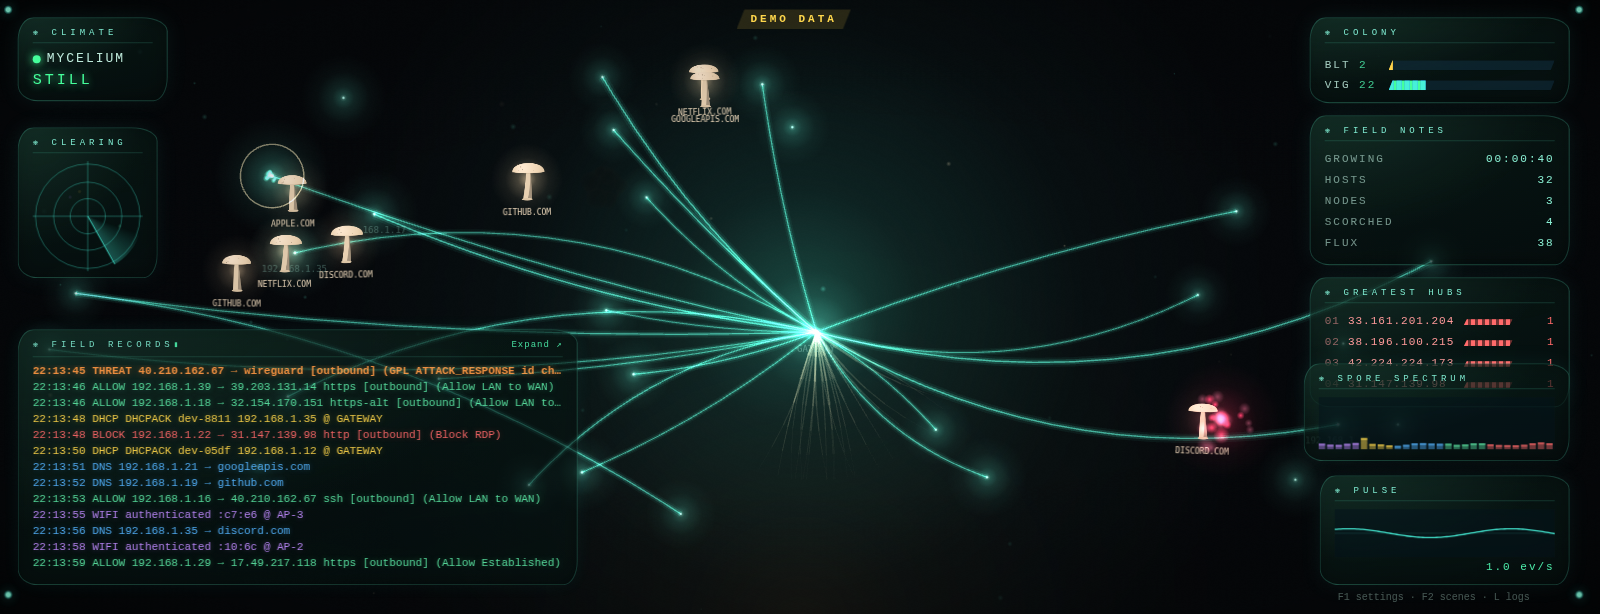
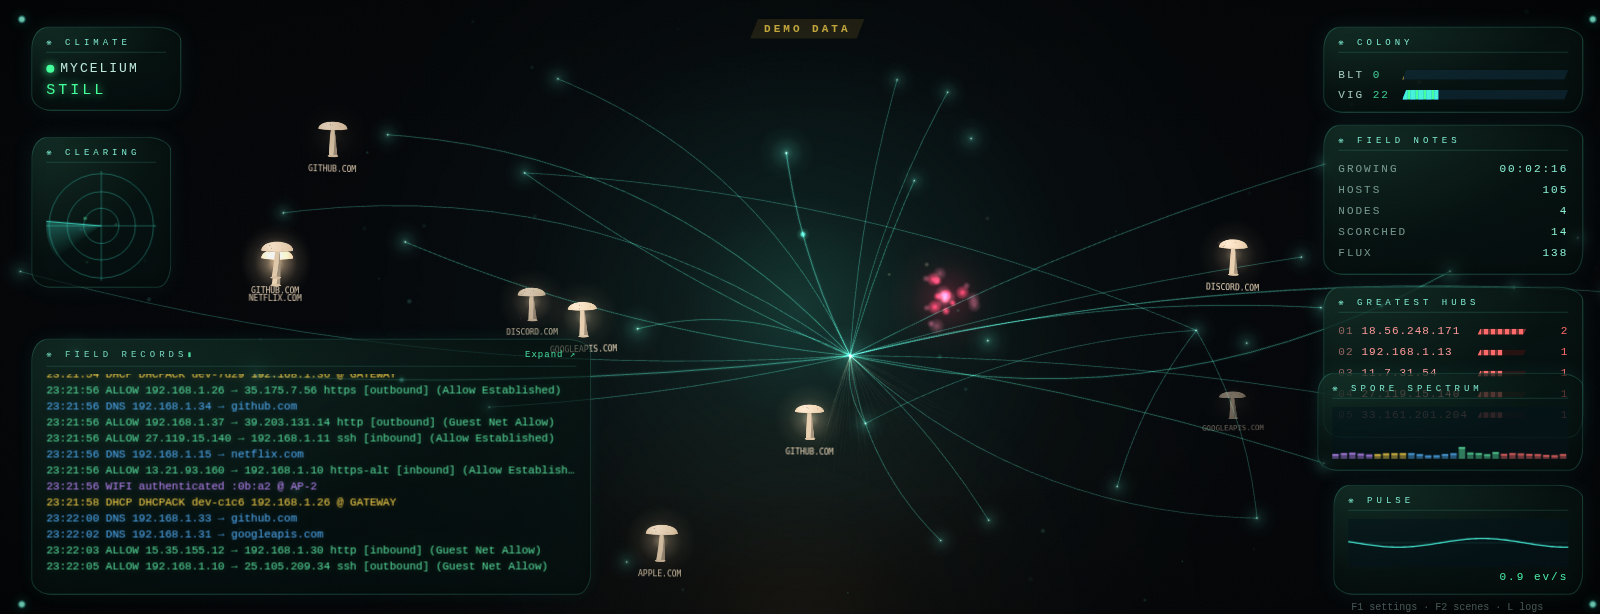
mycelium: traffic is transient light, not bulk brightness
- split every weight into memory (faint, days) and live flare (rate-
  independent top-up, 2.5s half-life): floods read as pulse density
- storm governor dims the base web as weather rises; node glow/flare capped
- blight burn-off flares live, bounded; calmer clearing glow
- stress-tested at 25 ev/s: no white-out; README docs shots re-taken

diff --git a/web/src/themes/mycelium/garden.ts b/web/src/themes/mycelium/garden.ts
@@ -11,7 +11,8 @@ export interface MNode {
   id: string;            // internal IP
   label: string;         // hostname if DHCP ever named it, else the IP
   nx: number; ny: number;
-  w: number;             // activity 0..1 (decays toward dormant)
+  w: number;             // memory 0..0.4: faint and persistent (days)
+  live: number;          // transient activity 0..~0.9: seconds, not traffic volume
   born: number;          // sim seconds
   pulse: number;         // recent-event flash, decays fast, drawn by the view
 }
@@ -19,7 +20,8 @@ export interface MNode {
 export interface MEdge {
   a: string;             // node id
   b: string;             // node id, or '' for an outward tendril
-  w: number;             // thickness 0..1 (decays: neglect thins the web)
+  w: number;             // memory 0..0.45: faint and persistent (days)
+  live: number;          // transient flare: each flow lights the thread briefly
   bend: number;          // -1..1 organic curve offset (stable per edge)
   out: number;           // tendril heading (radians) when b === ''
 }
@@ -49,7 +51,7 @@ export class Garden {
   node(id: string, label?: string, t = 0): MNode {
     let n = this.nodes.get(id);
     if (!n) {
-      n = { id, label: label ?? id, nx: 0, ny: 0, w: 0.08, born: t, pulse: 0 };
+      n = { id, label: label ?? id, nx: 0, ny: 0, w: 0.06, live: 0, born: t, pulse: 0 };
       this.place(n);
       this.nodes.set(id, n);
       this.dirty = true; this.revision++;
@@ -59,16 +61,20 @@ export class Garden {
     return n;
   }
 
-  /** Grow a hypha between two hosts, or boost it: traffic feeds the web. */
+  /** Grow a hypha between two hosts, or boost it: traffic lights the thread. */
   boost(a: MNode, b: MNode, amount: number): MEdge {
     const key = pairKey(a.id, b.id);
     let e = this.edges.get(key);
     if (!e) {
-      e = { a: a.id, b: b.id, w: 0, bend: hash01(key) * 2 - 1, out: 0 };
+      e = { a: a.id, b: b.id, w: 0, live: 0, bend: hash01(key) * 2 - 1, out: 0 };
       this.edges.set(key, e);
       this.revision++;
     }
-    e.w = Math.min(1, e.w + amount);
+    // transient by law: every flow is a pulse of light, not bulk. A flow
+    // tops the flare to a fixed height (rate-independent — volume reads as
+    // pulses, never brightness); memory creeps up so used paths stay visible
+    e.live = Math.min(0.9, Math.max(e.live, 0.45) + amount * 0.5);
+    e.w = Math.min(0.5, e.w + amount * 0.24);
     this.dirty = true;
     return e;
   }
@@ -79,11 +85,12 @@ export class Garden {
     const key = stubKey(a.id, out);
     let e = this.edges.get(key);
     if (!e) {
-      e = { a: a.id, b: '', w: 0, bend: hash01(key) * 2 - 1, out };
+      e = { a: a.id, b: '', w: 0, live: 0, bend: hash01(key) * 2 - 1, out };
       this.edges.set(key, e);
       this.revision++;
     }
-    e.w = Math.min(1, e.w + amount);
+    e.live = Math.min(0.9, Math.max(e.live, 0.4) + amount * 0.4);
+    e.w = Math.min(0.35, e.w + amount * 0.12);
     this.dirty = true;
     return e;
   }
@@ -141,23 +148,25 @@ export class Garden {
     }
   }
 
-  /** Feed activity: the node lights up, its recent events flash. */
+  /** Feed activity: the node lights up briefly, its memory creeps up faintly. */
   touch(n: MNode, amount = 0.35): void {
-    n.w = Math.min(1, Math.max(n.w, 0.12) + amount * 0.25);
-    n.pulse = 1;
+    n.live = Math.min(0.85, Math.max(n.live, 0.35) + amount * 0.2);
+    n.w = Math.min(0.4, Math.max(n.w, 0.08) + amount * 0.015);
+    n.pulse = Math.max(n.pulse, 0.6 + amount * 0.4);
   }
 
-  /** Neglect is the paintbrush: everything slowly thins toward dormancy. */
+  /** Neglect is the paintbrush: flares die in seconds, memory thins over days. */
   decay(dt: number, halfDays: number): void {
     const k = Math.exp(-LN2 * dt / (Math.max(0.5, halfDays) * 86400));
+    const el = Math.exp(-LN2 * dt / 2.5);       // transient flare: 2.5 s half-life
     for (const e of this.edges.values()) {
-      e.w *= k;
-      if (e.w < 0.004) { this.edges.delete(this.edgeKeyOf(e)); this.dirty = true; this.revision++; }
+      e.w *= k; e.live *= el;
+      if (e.w < 0.004 && e.live < 0.01) { this.edges.delete(this.edgeKeyOf(e)); this.dirty = true; this.revision++; }
     }
     const nk = Math.exp(-LN2 * dt / (Math.max(0.5, halfDays) * 86400 * 1.6));
     for (const n of this.nodes.values()) {
-      n.w *= nk;
-      n.pulse = Math.max(0, n.pulse - dt * 1.4);
+      n.w *= nk; n.live *= el;
+      n.pulse = Math.max(0, n.pulse - dt * 3.2);
     }
     // trim to budget: evict the frailest hyphae, then the most dormant hosts
     if (this.edges.size > this.maxEdges) this.evictEdges();
@@ -239,7 +248,7 @@ export class Garden {
         if (typeof id !== 'string' || typeof nx !== 'number') continue;
         const n = this.nodes.get(id);
         if (n) { n.w = Math.max(n.w, w * k); continue; }
-        this.nodes.set(id, { id, label: label || id, nx: clamp01(nx), ny: clamp01(ny), w: w * k, born: 0, pulse: 0 });
+        this.nodes.set(id, { id, label: label || id, nx: clamp01(nx), ny: clamp01(ny), w: w * k, live: 0, born: 0, pulse: 0 });
       }
       for (const r of d.edges) {
         const [a, b, w, bend, out] = r as [string, string, number, number, number];
@@ -249,7 +258,7 @@ export class Garden {
         if (b !== '' && !this.nodes.has(b)) continue;
         const key = b === '' ? stubKey(a, out) : pairKey(a, b);
         if (this.edges.has(key)) continue;
-        this.edges.set(key, { a, b, w: w * k, bend, out });
+        this.edges.set(key, { a, b, w: w * k, live: 0, bend, out });
       }
       this.dirty = true; this.revision++;
       return true;

diff --git a/web/src/themes/mycelium/view.ts b/web/src/themes/mycelium/view.ts
@@ -219,7 +219,9 @@ export class View {
       this.lastRev = garden.revision;
       this.lastDraw = t;
     }
-    this.hyphaG.alpha = 0.85 + 0.15 * Math.sin(t * 0.45);
+    // storm governor: when traffic floods, the base web dims and the light
+    // is carried by the travelling pulses instead
+    this.hyphaG.alpha = (0.85 + 0.15 * Math.sin(t * 0.45)) * (1 - this.weather * 0.3);
 
     this.syncNodes(garden, t);
     this.updatePulses(dt, garden);
@@ -230,7 +232,7 @@ export class View {
     this.updateRings(dt);
     this.updateMotes(dt);
 
-    const calm = 0.42 + 0.08 * Math.sin(t * 0.07);
+    const calm = 0.34 + 0.07 * Math.sin(t * 0.07);
     this.clearing.alpha = (calm + this.weather * 0.12) * this.glow;
     this.clearing.position.set(this.w / 2, this.h / 2);
     const cs = Math.min(this.w, this.h) * (1.5 + 0.06 * Math.sin(t * 0.05));
@@ -268,7 +270,10 @@ export class View {
     for (const e of garden.edges.values()) {
       const p = this.edgePts(e, garden);
       if (!p) continue;
-      const wgt = Math.pow(e.w, 0.75);
+      // memory keeps a faint thread; a flare only lifts it a little. Traffic
+      // volume reads as travelling pulses, never as bulk brightness — a
+      // flooded network is busy light over a calm web, not a white wall
+      const wgt = Math.min(0.65, e.w * 1.1 + e.live * 0.32);
       if (wgt <= 0.003) continue;
       if (e.b === '') {
         // outward tendril: a sampled polyline that fades into the dark
@@ -278,21 +283,21 @@ export class View {
           const fade = 1 - s / seg;
           g.moveTo(qbez(p[0], p[2], p[4], t0), qbez(p[1], p[3], p[5], t0))
             .lineTo(qbez(p[0], p[2], p[4], t1), qbez(p[1], p[3], p[5], t1))
-            .stroke({ color: WARM, width: (1.4 + 8 * wgt) * fade * u, alpha: (0.18 + 0.36 * wgt) * fade });
+            .stroke({ color: WARM, width: (1.2 + 5 * wgt) * fade * u, alpha: (0.07 + 0.18 * wgt) * fade });
         }
         continue;
       }
-      // wide bloom band, soft halo, bright thread, white-hot core on strong
-      // flows: the additive blend turns that stack into bioluminescence
+      // wide bloom band, soft halo, a bright thread, a white hint on the
+      // oldest paths: the additive blend turns that stack into bioluminescence
       g.moveTo(p[0], p[1]).quadraticCurveTo(p[2], p[3], p[4], p[5])
-        .stroke({ color: TEAL_DIM, width: (5 + 26 * wgt) * u, alpha: 0.05 + 0.16 * wgt });
+        .stroke({ color: TEAL_DIM, width: (3.5 + 12 * wgt) * u, alpha: 0.03 + 0.10 * wgt });
       g.moveTo(p[0], p[1]).quadraticCurveTo(p[2], p[3], p[4], p[5])
-        .stroke({ color: TEAL_DIM, width: (2.5 + 15 * wgt) * u, alpha: 0.18 + 0.34 * wgt });
+        .stroke({ color: TEAL_DIM, width: (1.5 + 9 * wgt) * u, alpha: 0.10 + 0.22 * wgt });
       g.moveTo(p[0], p[1]).quadraticCurveTo(p[2], p[3], p[4], p[5])
-        .stroke({ color: TEAL, width: (1 + 3.2 * wgt) * u, alpha: 0.42 + 0.55 * wgt });
-      if (wgt > 0.4) {
+        .stroke({ color: TEAL, width: (0.9 + 2.2 * wgt) * u, alpha: 0.34 + 0.34 * wgt });
+      if (wgt > 0.5) {
         g.moveTo(p[0], p[1]).quadraticCurveTo(p[2], p[3], p[4], p[5])
-          .stroke({ color: WHITE, width: 1.4 * u, alpha: (wgt - 0.4) * 1.2 });
+          .stroke({ color: WHITE, width: u, alpha: (wgt - 0.5) * 1.4 });
       }
     }
   }
@@ -324,16 +329,17 @@ export class View {
       const n = v.n;
       const x = n.nx * this.w, y = n.ny * this.h;
       const born = Math.min(1, (t - n.born) * 1.4 + 0.05);
-      const wgt = Math.min(0.82, Math.pow(n.w, 0.7));
-      const pulse = n.pulse * n.pulse;
+      // memory glows faintly; live activity flares — the root never bakes in
+      const wgt = Math.min(0.72, Math.pow(Math.min(1, n.w * 0.7 + n.live), 0.7));
+      const pulse = Math.min(1, n.pulse) * Math.min(1, n.pulse);
       const breathe = 1 + 0.07 * Math.sin(t * 1.3 + id.length * 2.7 + x * 0.01);
       v.glow.position.set(x, y);
-      v.glow.width = v.glow.height = (38 + 105 * wgt + 65 * pulse) * breathe * this.glow * born;
-      v.glow.alpha = Math.min(0.8, 0.24 + 0.38 * wgt + 0.3 * pulse) * this.glow * born;
-      const cSize = (7 + 9 * wgt + 7 * pulse) * this.unit * born;
+      v.glow.width = v.glow.height = (30 + 62 * wgt + 45 * pulse) * breathe * this.glow * born;
+      v.glow.alpha = Math.min(0.55, 0.2 + 0.3 * wgt + 0.2 * pulse) * this.glow * born;
+      const cSize = (6 + 7 * wgt + 5 * pulse) * this.unit * born;
       v.core.position.set(x, y);
       v.core.width = v.core.height = cSize;
-      v.core.alpha = (0.5 + 0.5 * Math.min(1, wgt * 1.4 + pulse)) * born;
+      v.core.alpha = Math.min(0.8, 0.45 + 0.45 * Math.min(1, wgt * 1.2 + pulse)) * born;
       v.label.position.set(x, y + 10 * this.unit + cSize * 0.4);
       // only significant hosts carry a name — the rest are pure light
       v.label.alpha = this.labels ? (n.w > 0.3 ? 0.12 + 0.4 * wgt : 0) * born : 0;
@@ -402,7 +408,7 @@ export class View {
         this.emit(b.x, b.y, WHITE, 26, 180 * this.unit, 0.9);
         this.emit(b.x, b.y, TEAL, 16, 110 * this.unit, 1.3);
         this.ringAt(b.x, b.y, TEAL, 160);
-        for (const e of garden.edges.values()) e.w = Math.min(1, e.w + 0.04);
+        for (const e of garden.edges.values()) e.live = Math.min(0.9, Math.max(e.live, 0.7));
         garden.revision++;
       }
       const fade = b.phase ? Math.max(0, 1 - (b.t - 7.5) / 1.6) : 1;

diff --git a/web/src/themes/mycelium/index.ts b/web/src/themes/mycelium/index.ts
@@ -222,7 +222,7 @@ async function create(host: ThemeHost<typeof MYCELIUM_DEFAULTS>,
       const root = gatewayNode();
       if (ext !== root) garden.boost(ext, root, amount * 0.8);
       garden.tendril(root, other, amount * 0.5);
-      garden.touch(ext, 0.16); garden.touch(root, 0.14);
+      garden.touch(ext, 0.16); garden.touch(root, 0.05);
       return true;
     }
     if (ext) garden.touch(ext, 0.12);
